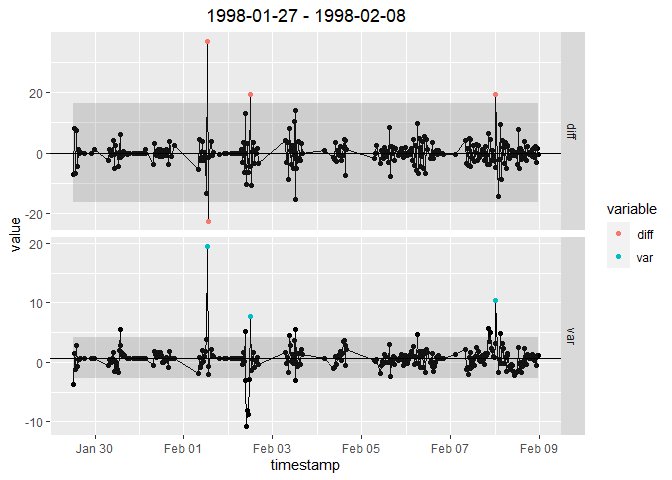
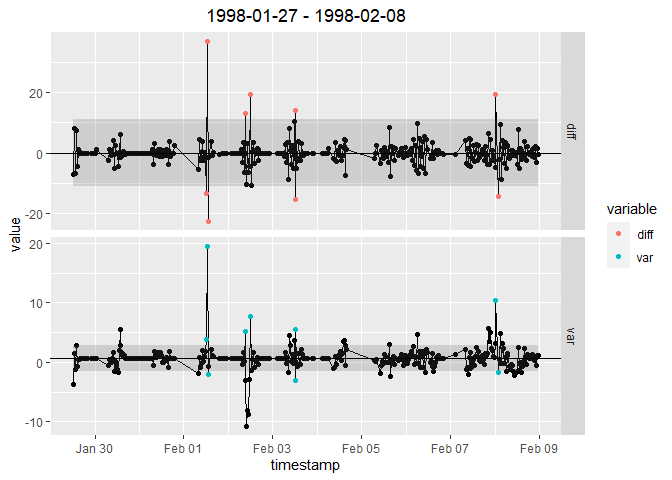
update README

diff --git a/README.md b/README.md
@@ -11,8 +11,17 @@ the results. It is aligned with
 [REddyProc](https://github.com/bgctw/REddyProc) package that provides
 methods for uStar-filtering, gap-filling, and flux-partitioning. Thus
 the combined use of `openeddy` and `REddyProc` allows to run the whole
-eddy covariance post-processing chain. Learn more at
-<https://github.com/lsigut/EC_workflow>.
+eddy covariance post-processing chain.
+
+All `openeddy` functions are extensively documented. The help file of
+the given function with the arguments description, details section, and
+examples can be viewed using `?function_name`. To see the most common
+`openeddy` use-cases, you can explore the commented interactive
+[openeddy tutorials](https://github.com/lsigut/openeddy_tutorials). The
+applications are also summarized in the form of a poster:
+<https://zenodo.org/record/8159040>. For the example of the whole eddy
+covariance post-processing chain see
+[EC_workflow](https://github.com/lsigut/EC_workflow).
 
 ## Installation
 
@@ -48,6 +57,7 @@ library(openeddy)
 #>     units, units<-
 library(REddyProc)
 library(ggplot2)
+#> Warning: package 'ggplot2' was built under R version 4.2.3
 ```
 
 Example data from `REddyProc` package do not include statistics
@@ -114,7 +124,7 @@ summary_QC(DETha98, "qc_NEE_runs")
 #> no columns with 'na.as = 0' detected
 #>              QC_flag
 #> QC_filter     flag_0 flag_2 flag_NA
-#>   qc_NEE_runs   63.2    1.1    35.7
+#>   qc_NEE_runs   63.9    0.3    35.7
 DETha98$qc_NEE_prelim <- 
   combn_QC(DETha98, 
            c("qc_NEE", "qc_NEE_lowcov", "qc_NEE_runs"), 
@@ -124,15 +134,15 @@ DETha98$qc_NEE_prelim <-
 DETha98$qc_NEE_spikesLF <- 
   despikeLF(DETha98, "NEE", "qc_NEE_prelim", "qc_NEE_spikesLF", 
             light = NULL)
-#> iter 1: 25
-#> iter 2: 1
+#> iter 1: 30
+#> iter 2: 2
 #> iter 3: 0
 #> Further iterations omitted
 summary_QC(DETha98, "qc_NEE_spikesLF")
 #> detected columns with 'na.as = 0': qc_NEE_spikesLF
 #>                  QC_flag
 #> QC_filter         flag_0 flag_2
-#>   qc_NEE_spikesLF   99.9    0.1
+#>   qc_NEE_spikesLF   99.8    0.2
 ```
 
 The QC results can be summarized in tabular or graphical form using
@@ -149,8 +159,8 @@ summary_QC(DETha98,
 #> QC_filter         flag_0 flag_2 flag_NA
 #>   qc_NEE            64.3    0.0    35.7
 #>   qc_NEE_lowcov     64.2    0.1    35.7
-#>   qc_NEE_runs       63.2    1.1    35.7
-#>   qc_NEE_spikesLF   99.9    0.1     0.0
+#>   qc_NEE_runs       63.9    0.3    35.7
+#>   qc_NEE_spikesLF   99.8    0.2     0.0
 summary_QC(DETha98, 
            c("qc_NEE", "qc_NEE_lowcov", "qc_NEE_runs", "qc_NEE_spikesLF"),
            cumul = TRUE, plot = TRUE, flux = "NEE")
@@ -213,14 +223,20 @@ in order to inspect selected 13 days blocks. See section Plotting in
 despikeLF_plots <- 
   despikeLF(DETha98, "NEE", "qc_NEE_prelim", "qc_NEE_spikesLF", 
             light = NULL, plot = TRUE)$plots
-#> iter 1: 25
-#> iter 2: 1
+#> iter 1: 30
+#> iter 2: 2
 #> iter 3: 0
 #> Further iterations omitted
 despikeLF_plots$`iter 1`$all$`1998-01-27 - 1998-02-08`
 ```
 
 ![](README-unnamed-chunk-9-1.png)
+
+## Contact
+
+Ladislav Šigut: <sigut.l@czechglobe.cz>
+
+Global Change Research Institute CAS, Bělidla 4a, 603 00 Brno, CZ
 
 ## References
 
